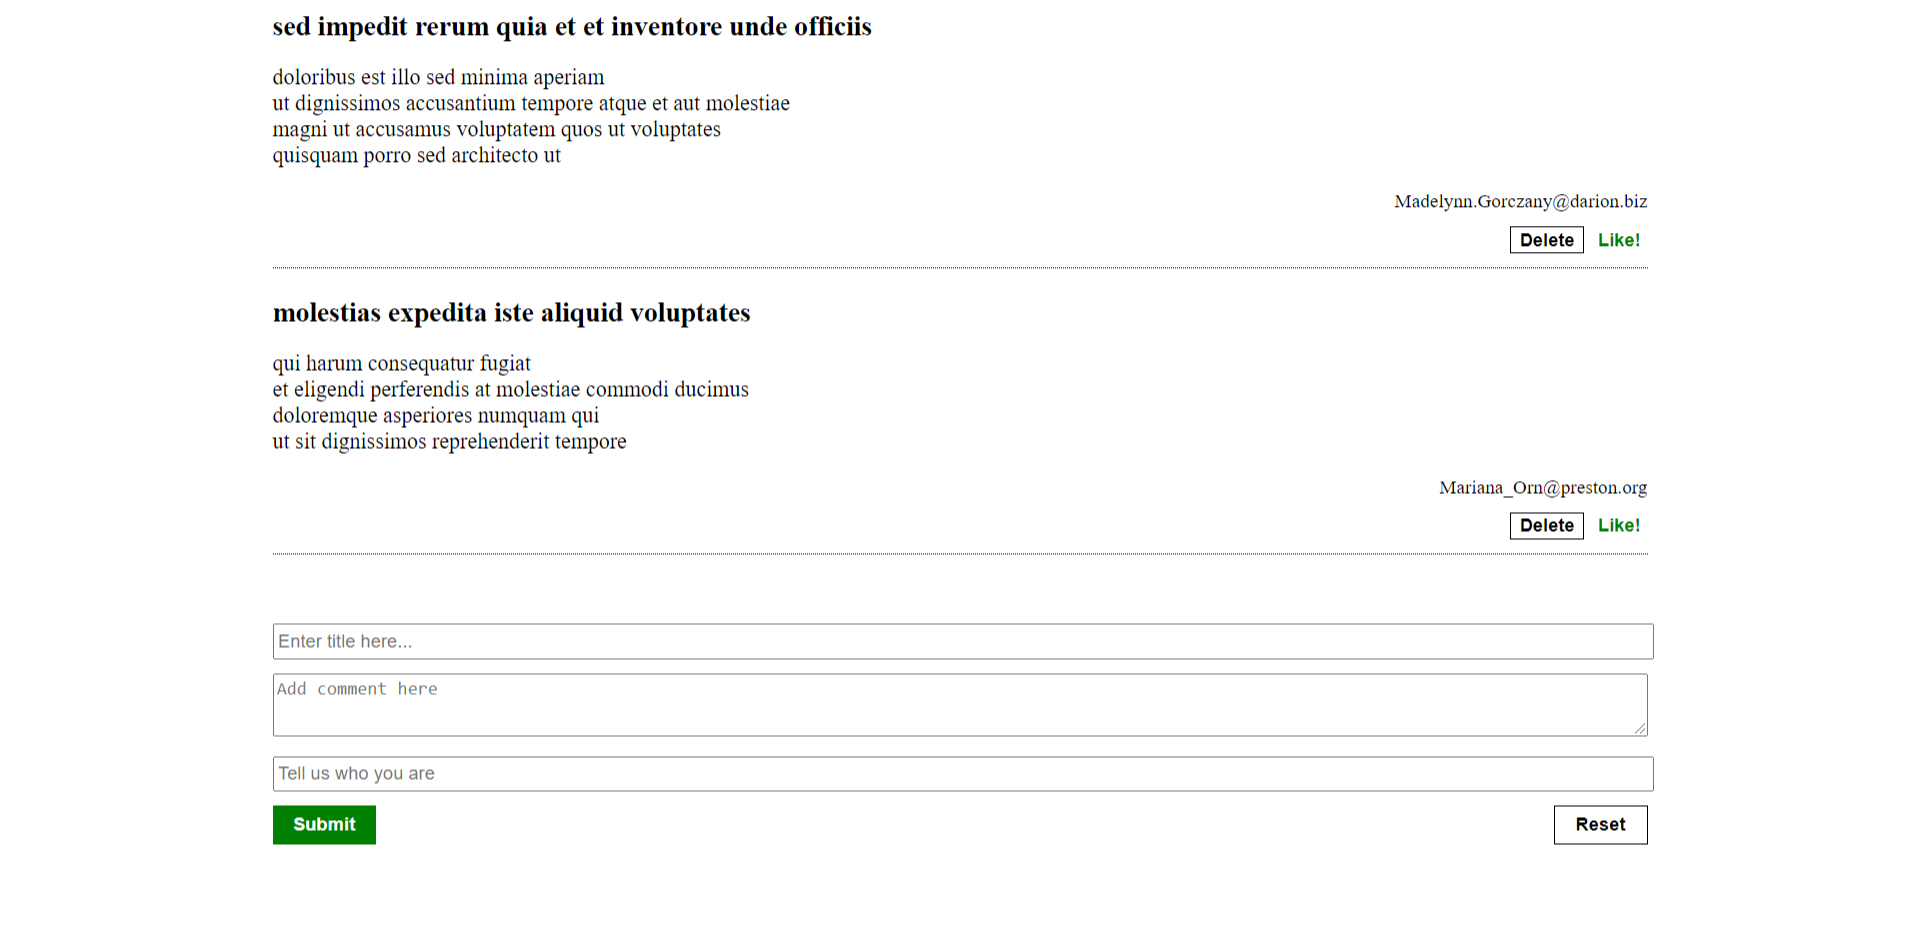
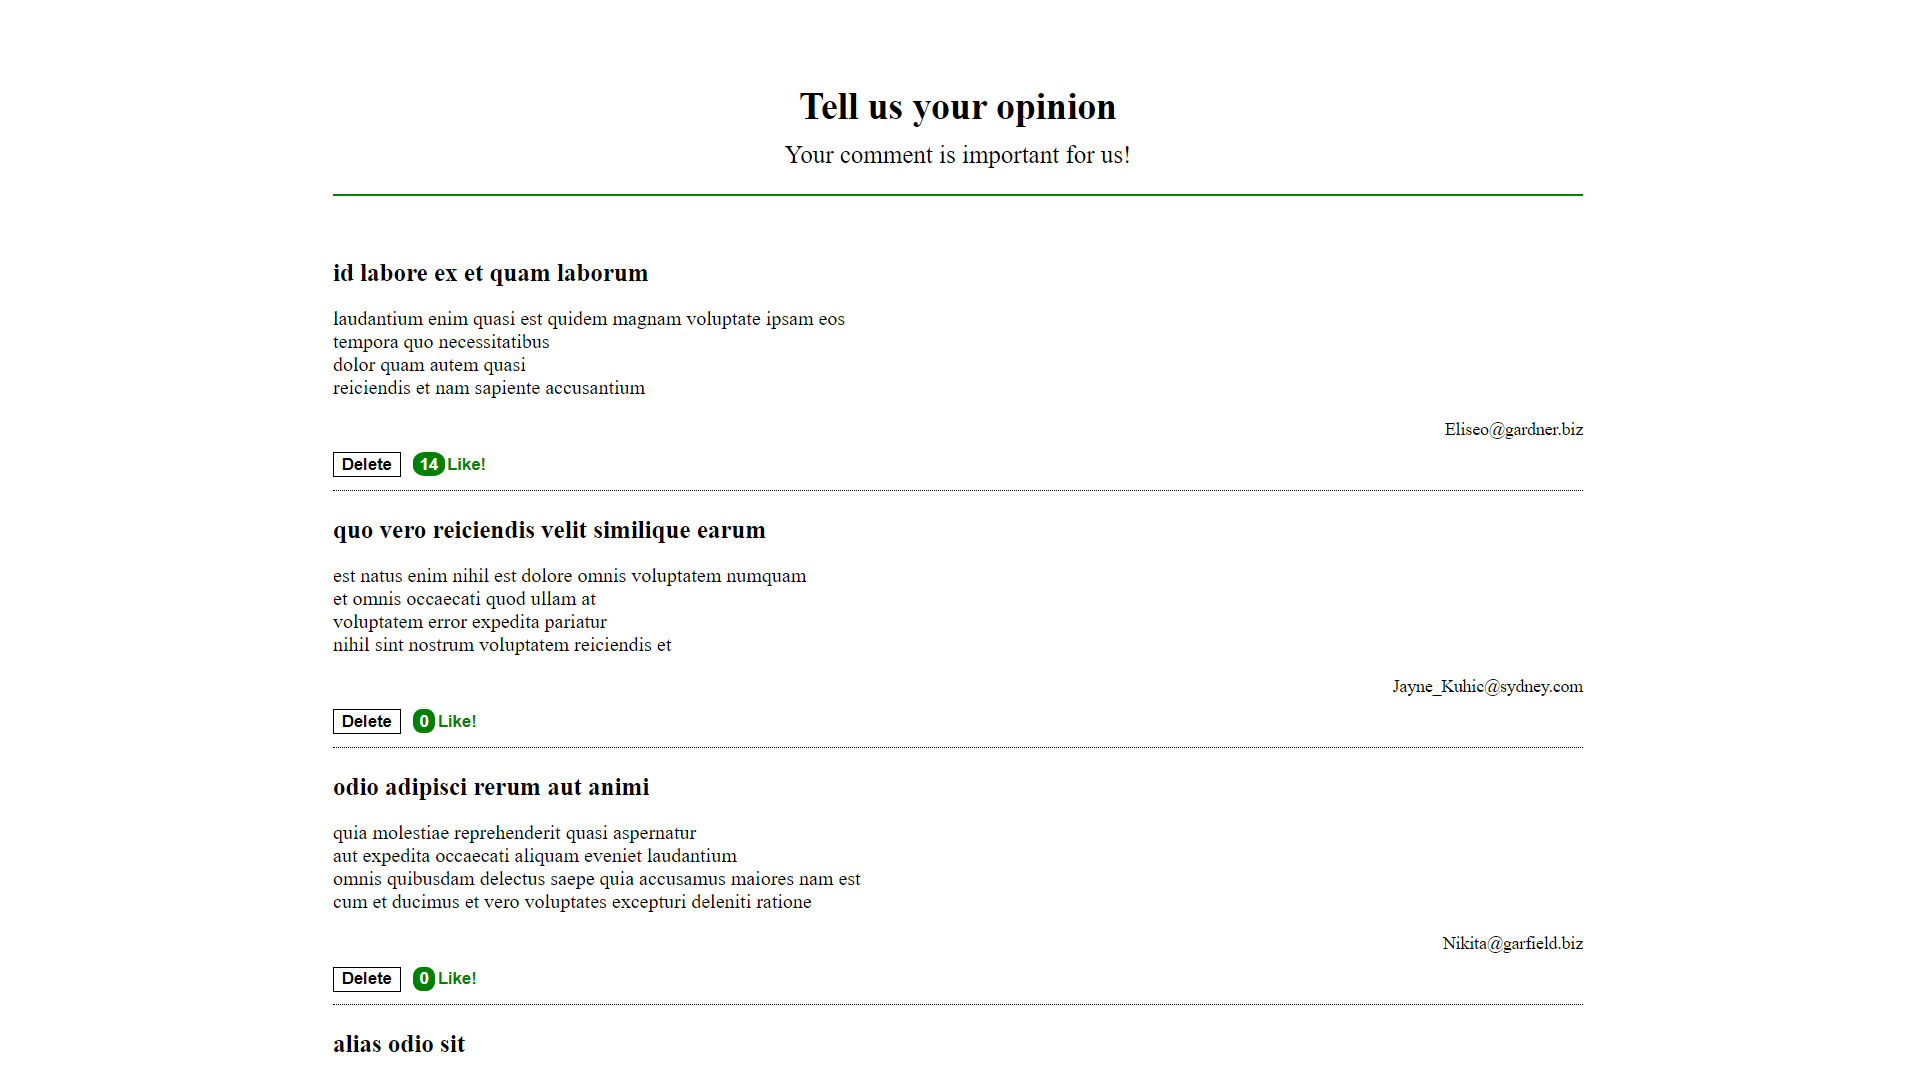
cleaned code + cut portfolio images

diff --git a/public/portfolio/comment-list/assets/js/main.js b/public/portfolio/comment-list/assets/js/main.js
@@ -1,15 +1,13 @@
 function getDataFromDB() {
   //*** Using the fetch function, taking the comments from JSON placeholder ***/
   var root = 'https://jsonplaceholder.typicode.com';
-
-  fetch(root + '/comments?_limit=20&fbclid=IwAR1BDF_b9Q5SE1qmqamofcLDPEGALEihM2_vyW3ptu4RuxzT3CE575QtjaA', {
+  fetch(root + '/comments?_limit=5&fbclid=IwAR1BDF_b9Q5SE1qmqamofcLDPEGALEihM2_vyW3ptu4RuxzT3CE575QtjaA', {
     method: 'GET'
   })
     .then(function (response) {
       return response.json();
     })
     .then(function (jsonResp) {
-      console.log(jsonResp);
       var comment = jsonResp;
       return comment;
     })
@@ -17,7 +15,6 @@ function getDataFromDB() {
     .then(function listComments(jsonResp) {
       for (var i = 0; i < jsonResp.length; i++) {
         var comment = jsonResp[i];
-        console.log(comment);
 
         var $article = createCommentElement(comment.name, comment.body, comment.email, i);
 
@@ -53,18 +50,19 @@ function createCommentElement(title, comment, author, index) {
   $deleteBtn.classList.add('delete-btn');
   $deleteBtn.innerText = "Delete";
   $article.appendChild($deleteBtn);
-
   $deleteBtn.setAttribute('id', 'comment-id');
   $deleteBtn.addEventListener('click', deleteComment);
 
   var $likeBtn = document.createElement('button');
   $likeBtn.classList.add('like-btn');
-  $likeBtn.innerText = "Like!";
   $article.appendChild($likeBtn);
-
+  var $likeCounter = 0;
   $likeBtn.setAttribute('id', 'like-id');
+  $likeBtn.innerHTML = `<span class='like-counter'>0 </span>Like!`;
   $likeBtn.addEventListener('click', function () {
-    return showCommentIndex(index);
+    $likeCounter += 1;
+    var currentElement = this.children[0];
+    currentElement.innerText = ` ${$likeCounter} `;
   });
   //******************************************************/
 
@@ -78,16 +76,10 @@ function deleteComment() {
   reloadComments();
 };
 
-
 function reloadComments(comments) {
-  console.log('document is reloaded');
-
   var comments = getDataFromDB();
-  console.log(comments);
-
   for (var i = 0; i < comments.length; i++) {
     var comment = comments[i];
-    console.log(comment);
   };
 };
 
@@ -96,52 +88,21 @@ function showCommentIndex(index) {
 };
 
 var $deleteBtn = document.querySelectorAll('[comment-id]');
-console.log($deleteBtn);
-
 //**************************************************************/
-
 
 var $title = document.querySelector('input[name="title"]');
 var $comment = document.querySelector('textarea[name="comment"]');
 var $author = document.querySelector('input[name="author"]');
 
 function addComment(event) {
-  console.log('add comment');
-
   event.preventDefault();
   console.dir(event);
-  console.log($title.value);
-  console.log($comment.value);
-  console.log($author.value);
-
   var $article = createCommentElement($title.value, $comment.value, $author.value);
-
   $comments.appendChild($article);
 };
 
-$searchInput = document.querySelector('input[name="search"]');
-
-function onSearch(event) {
-  console.log(event);
-  console.log($searchInput.value);
-};
-
-function onSearchInputChange(event) {
-  console.log(event);
-  console.log($searchInput.value);
-};
-
 document.addEventListener('DOMContentLoaded', function () {
-  console.log('document is loaded');
-
   var comments = getDataFromDB();
-  console.log(comments);
-
   var $form = document.querySelector('form');
   $form.addEventListener('submit', addComment);
-
-  $searchButton = document.querySelector('.search');
-  $searchButton.addEventListener('click', onSearch);
-
-  $searchInput.addEventListener('input', onSearchInputChange);
 });

diff --git a/public/portfolio/comment-list/index.html b/public/portfolio/comment-list/index.html
@@ -3,49 +3,61 @@
   <head>
     <meta charset="UTF-8" />
     <meta name="viewport" content="width=device-width, initial-scale=1.0" />
-    <title>Document</title>
+    <title>Comment List</title>
     <link rel="stylesheet" href="assets/css/style.css" />
     <link rel="stylesheet" href="../backButton.css" />
   </head>
+
   <body>
+
     <section class="container">
-      <h3>Tell us your opinion</h3>
-      <fieldset>
-        <input name="search" type="text" placeholder="Search by title" />
-        <button class="search">Search</button>
-      </fieldset>
+
+      <div>
+
+        <h3>Tell us your opinion</h3>
+        <p>Your comment is important for us!</p>
+
+      </div>
+
+      <hr class="divider" />
 
       <section class="comments">
-        <article>
-          <header>JS is amazing</header>
-          <p class="comment">
-            Lorem ipsum dolor, sit amet consectetur adipisicing elit. Soluta
-            modi magnam, vel obcaecati rerum ad repellat.
-          </p>
-          <footer>John</footer>
-          <button class="delete-btn">Delete</button>
-          <button class="like-btn">Like!</button>
-        </article>
-        <!-- here we want to insert an newly created article -->
+        <!-- here comments are rendered -->
       </section>
 
       <form>
+
         <div>
+
           <input name="title" type="text" placeholder="Enter title here..." />
+
         </div>
+
         <div>
+
           <textarea name="comment" placeholder="Add comment here"></textarea>
+
         </div>
+
         <div>
+
           <input name="author" type="text" placeholder="Tell us who you are" />
+          
         </div>
+
         <div>
+
           <button type="submit">Submit</button>
           <button type="reset">Reset</button>
+
         </div>
+
       </form>
+
       <button class="back-btn"><p>Back to Portfolio</p></button>
+
     </section>
+
     <script src="assets/js/main.js"></script>
     <script src="../backButton.js"></script>
   </body>

diff --git a/public/portfolio/backButton.css b/public/portfolio/backButton.css
@@ -1,27 +1,30 @@
 /*Back Button CSS*/
-
 .back-btn {
-    position: fixed;
-    bottom: 20px;
-    right: 20px;
-    z-index: 1000;
-    box-shadow: 0px 10px 14px -7px #3e7327;
-    background: linear-gradient(to bottom, #77b55a 5%, #265a12 100%);
-    background-color: #77b55a;
-    border-radius: 8px;
-    border: none;
-    display: inline-block;
-    cursor: pointer;
-    color: #ffffff;
-    font-family: Arial;
-    font-size: 20px;
-    font-weight: bold;
-    padding: 5px 10px;
-    text-decoration: none;
-    text-shadow: 0px 1px 0px #5b8a3c;
-  }
-  .back-btn:hover {
-    background: linear-gradient(to bottom, #265a12 5%, #77b55a 100%);
-    background-color: #265a12;
-  }
-  
+  position: fixed;
+  bottom: 20px;
+  right: 20px;
+  z-index: 1000;
+  box-shadow: 0px 10px 14px -7px #3e7327;
+  background: linear-gradient(to bottom, #77b55a 5%, #265a12 100%);
+  background-color: #77b55a;
+  border-radius: 8px;
+  border: none;
+  display: inline-block;
+  cursor: pointer;
+  color: #ffffff;
+  font-family: Arial;
+  font-size: 20px;
+  font-weight: 500;
+  padding: 5px 10px;
+  text-decoration: none;
+  text-shadow: 0px 1px 0px #5b8a3c;
+}
+
+.back-btn:hover {
+  background: linear-gradient(to bottom, #265a12 5%, #77b55a 100%);
+  background-color: #265a12;
+}
+
+.back-btn p {
+  margin: 0px;
+}

diff --git a/src/components/MyOnlineCv/MyOnlineCv.js b/src/components/MyOnlineCv/MyOnlineCv.js
@@ -6,30 +6,32 @@ import Education from './Education/Education';
 import ProfExperience from './ProfExperience/ProfExperience';
 import Languages from './Languages/Languages';
 
-const MyOnlineCv = () => {
-    return (
-        <section className="my-online-cv container-fluid">
+const MyOnlineCv = function () {
+  return (
+    <section className="my-online-cv container-fluid">
 
-            <div className="container">
+      <div className="container">
 
-                <div className="section-title">
-                    <h1>My Online CV</h1>
-                    <h2>A little section about my experience</h2>
-                </div>
+        <div className="section-title">
 
-                <div className="cv-content">
+          <h1>My Online CV</h1>
+          <h2>A little section about my experience</h2>
 
-                    <Skills />
-                    <Education />
-                    <ProfExperience />
-                    <Languages />
+        </div>
 
-                </div>
+        <div className="cv-content">
 
-            </div>
+          <Skills />
+          <Education />
+          <ProfExperience />
+          <Languages />
 
-        </section>
-    )
-}
+        </div>
+
+      </div>
+
+    </section>
+  );
+};
 
 export default MyOnlineCv;

diff --git a/public/portfolio/comment-list/assets/css/style.css b/public/portfolio/comment-list/assets/css/style.css
@@ -1,5 +1,17 @@
 .container h3 {
-  font-size: 22px;
+  font-size: 30px;
+  text-align: center;
+  margin-bottom: 0px;
+}
+
+.container div:nth-child(1) p {
+  font-size: 20px;
+  text-align: center;
+  margin: 10px 0 20px 0;
+}
+
+.divider {
+  border: 1px solid #008000;
 }
 
 article header {
@@ -26,21 +38,6 @@ article footer {
   margin-bottom: 20px;
 }
 
-[name="search"] {
-  width: 815px;
-  height: 22px;
-}
-
-button.search {
-  height: 28px;
-  border: none;
-  background-color: green;
-  color: white;
-  font-weight: 600;
-  padding: 6px 55px;
-  margin-left: 16px;
-}
-
 fieldset {
   border: none;
   padding-left: 0px;
@@ -49,7 +46,6 @@ fieldset {
 }
 
 .delete-btn {
-  margin-left: 900px;
   cursor: pointer;
   border: 1px solid black;
   background-color: transparent;
@@ -67,6 +63,15 @@ fieldset {
   color: green;
   font-weight: 600;
   cursor: pointer;
+}
+
+.like-btn span {
+  background-color: green;
+  color: white;
+  border-radius: 40%;
+  box-sizing: border-box;
+  padding: 2px 2px 2px 5px;
+  margin-right: 2px;
 }
 
 form {
